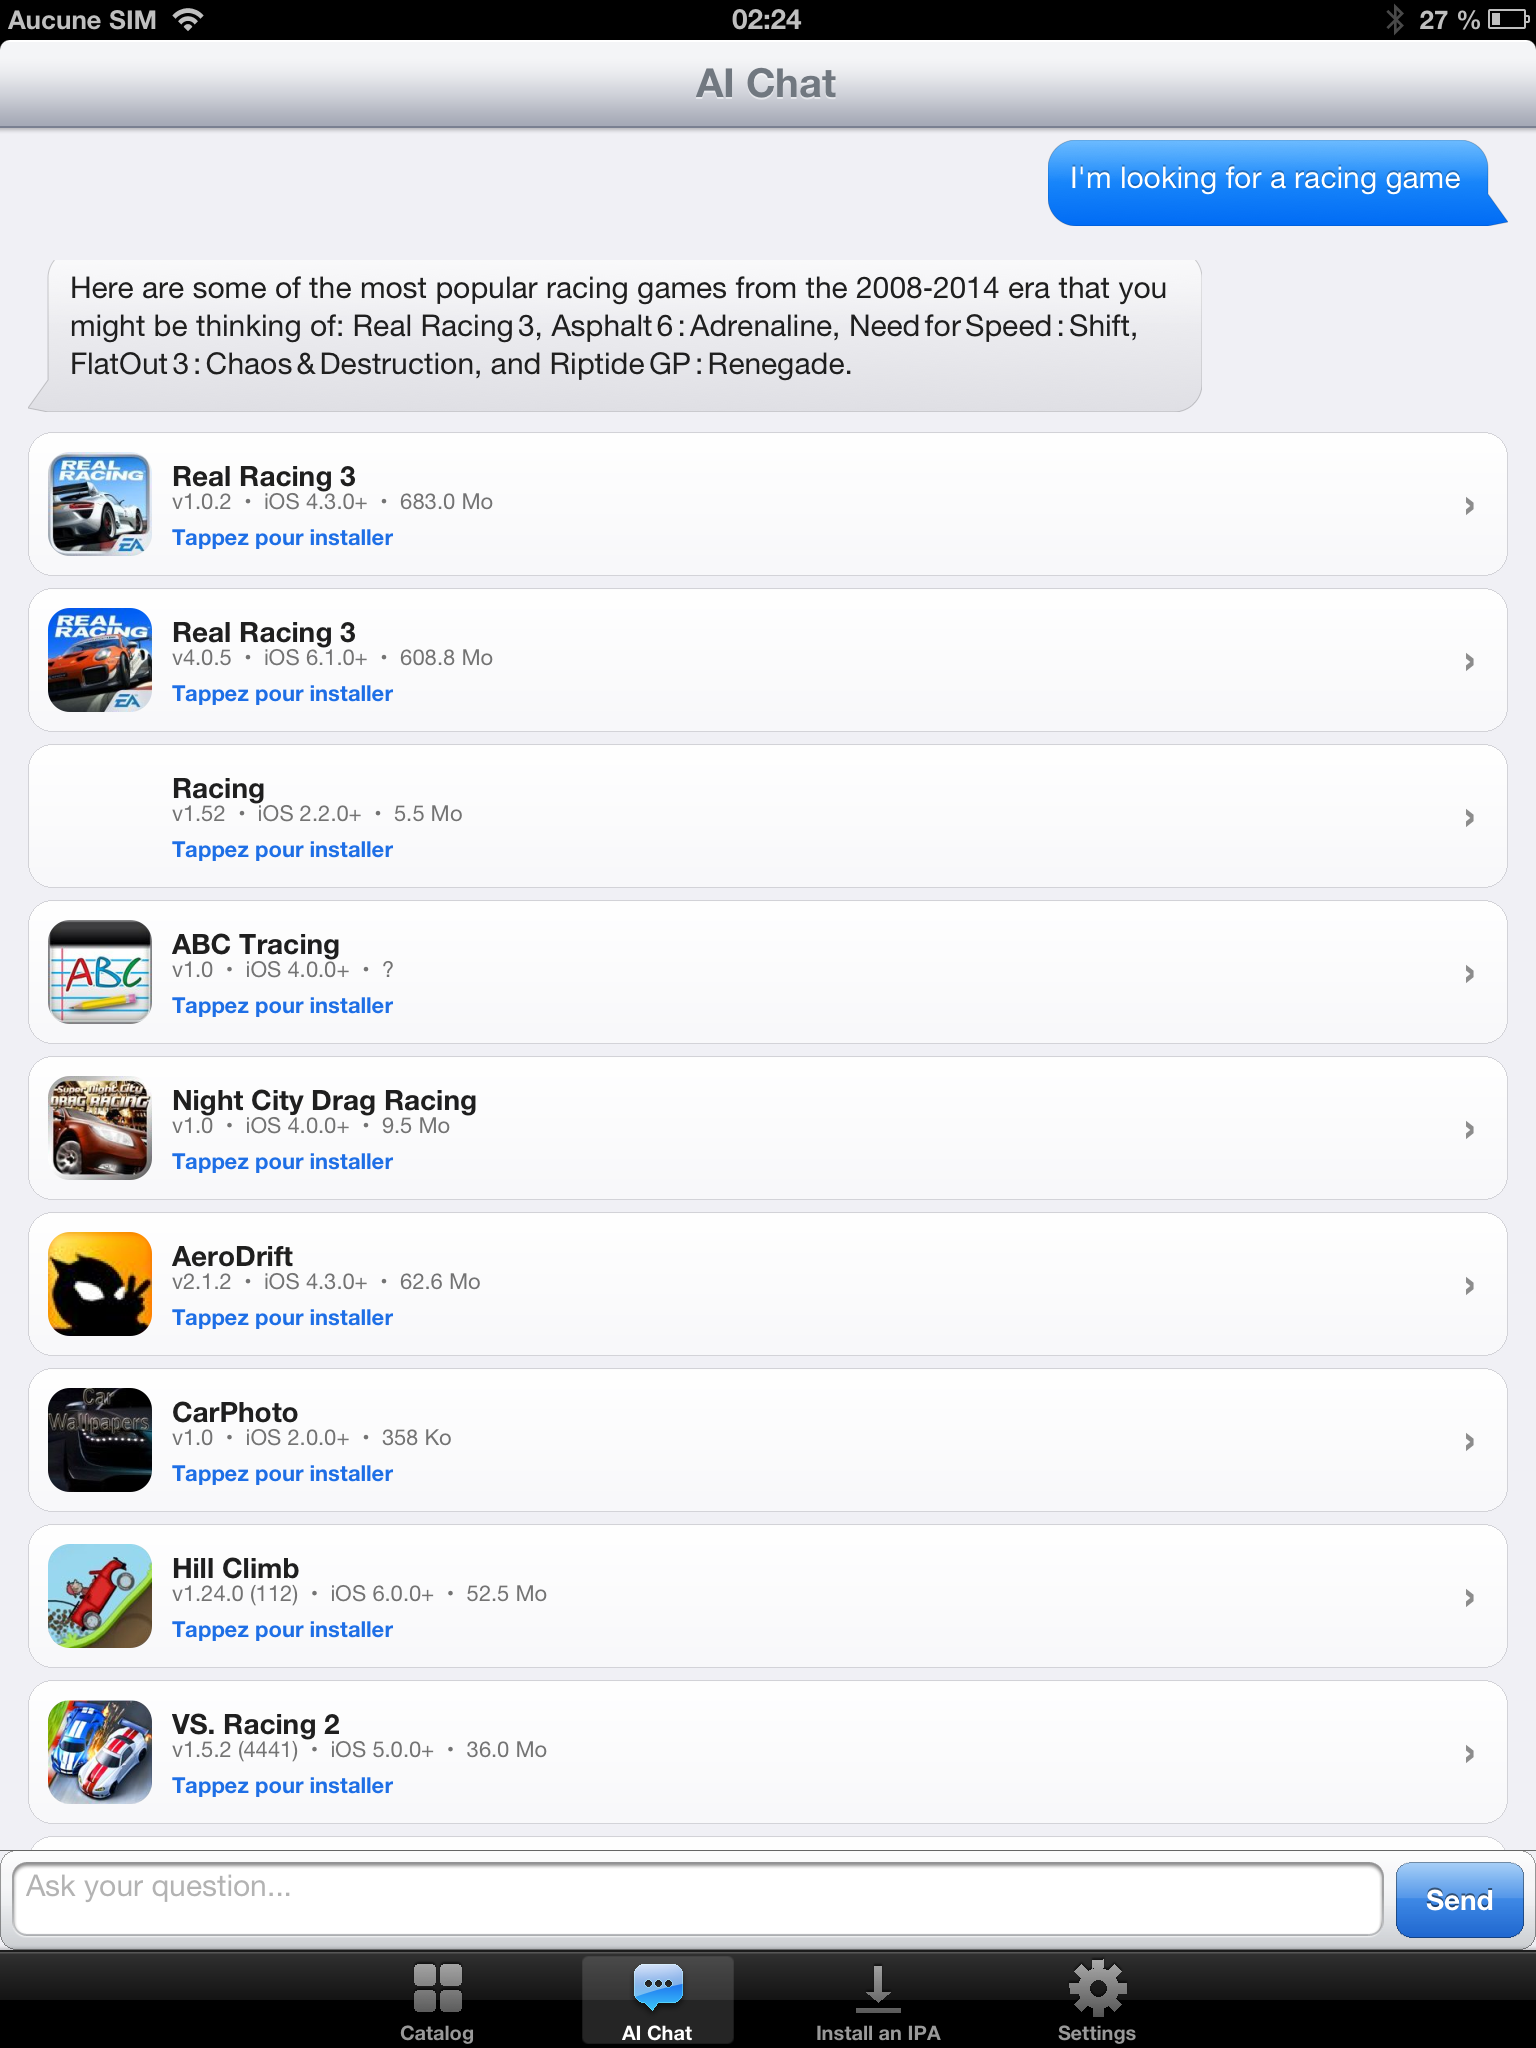
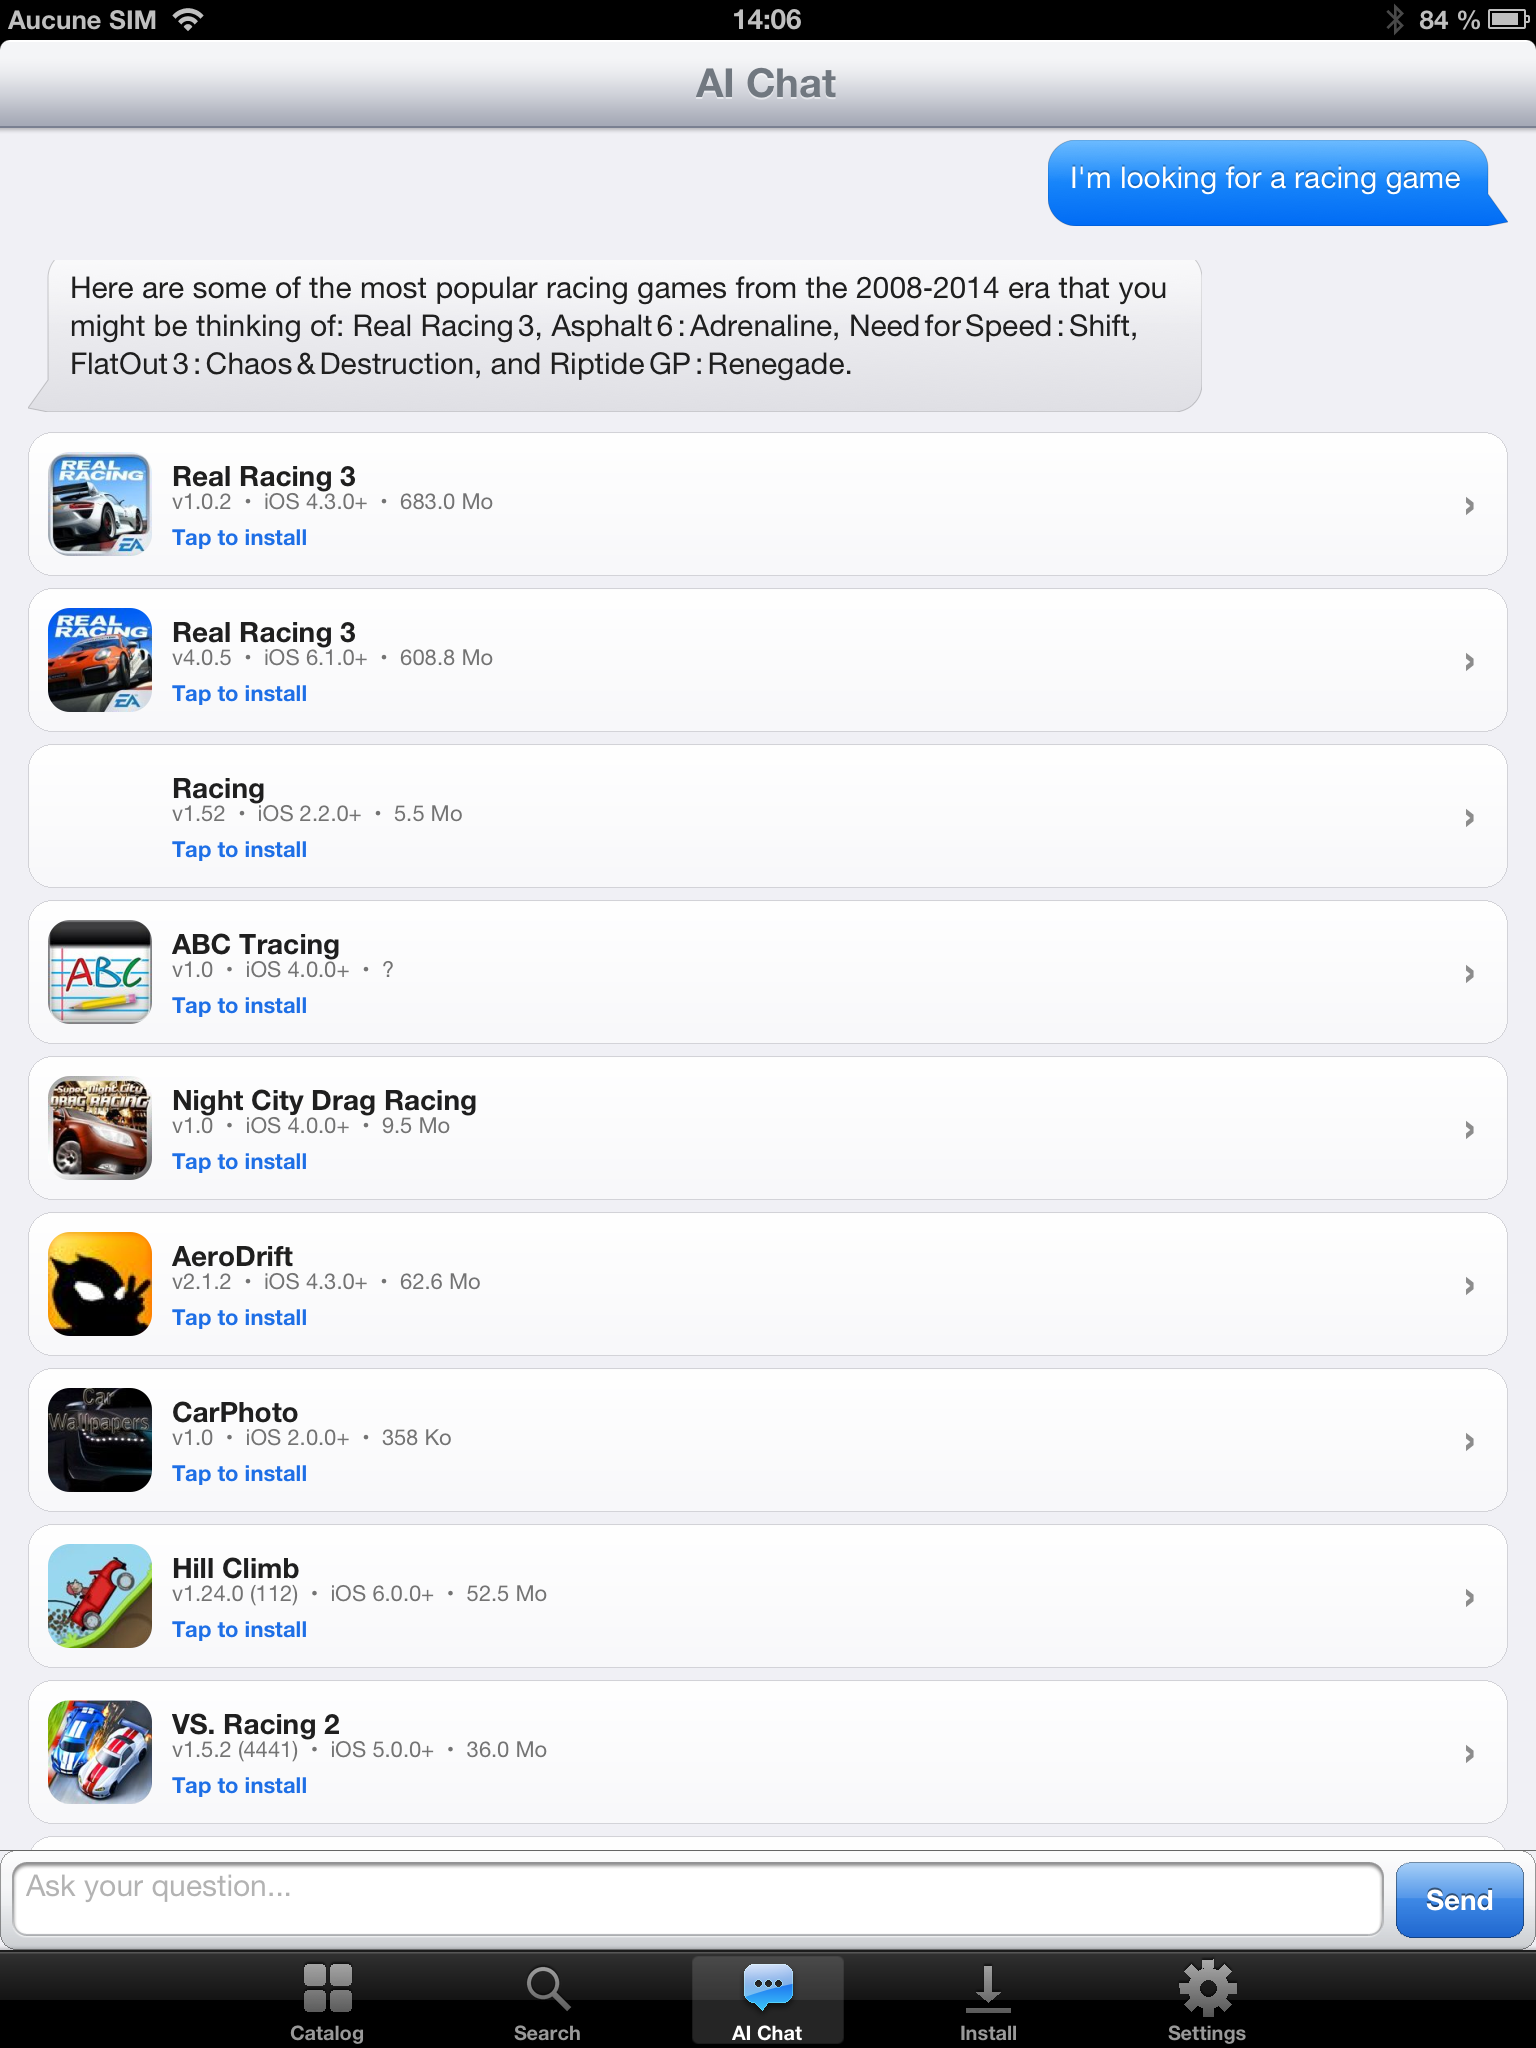
Refresh README screenshots — 3 new shots from iPad 4, plus Search section
screenshot-11 → fresh Catalog grid (iPad portrait, 4-col layout)
screenshot-12 → fresh AI Chat showing racing-games query + result list
screenshot-13 → new Search tab (replaces the App-details image; v1.2 hero feature)
screenshot-14 → unchanged (Filters)

README "App details" section replaced with "Search" — describes the live
search-as-you-type behaviour added in v1.2.

diff --git a/README.md b/README.md
@@ -73,11 +73,11 @@ Browse all 157,000 archived apps. Tap *Filters* to narrow by iOS version, device
 
 Tap the *AI Chat* tab and describe an app in plain language — any of the 7 supported languages works. The LLM identifies vintage titles (Real Racing 3, Asphalt 6, NFS, etc.) and shows them as tappable install cards.
 
-### App details
+### Search
 
-<img src="screenshots/screenshot-13.png" width="400" alt="App detail showing Angry Birds with Install button">
+<img src="screenshots/screenshot-13.png" width="400" alt="Search tab finding Real Racing 1/2/3">
 
-Tap any app to see its bundle ID, version, minimum iOS, platform, file size, and the actual archive.org URL. The big blue **Install** button shows live download progress (`Téléchargement 42 %` → `Installation…` → `Installé`).
+The **Search** tab lets you find apps by name in real time across all 157k entries — debounce is 150 ms so results stream in as you type. Each row shows the version, minimum iOS, file size and the actual `.ipa` filename so you can pick the right mirror. Tap a row to open the detail screen and install.
 
 ### Filters
 